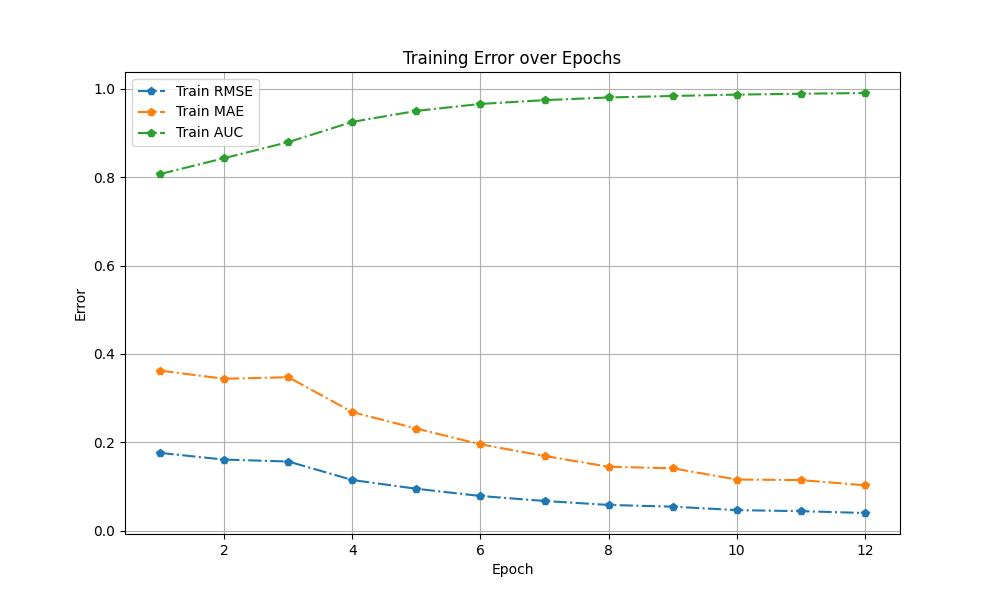
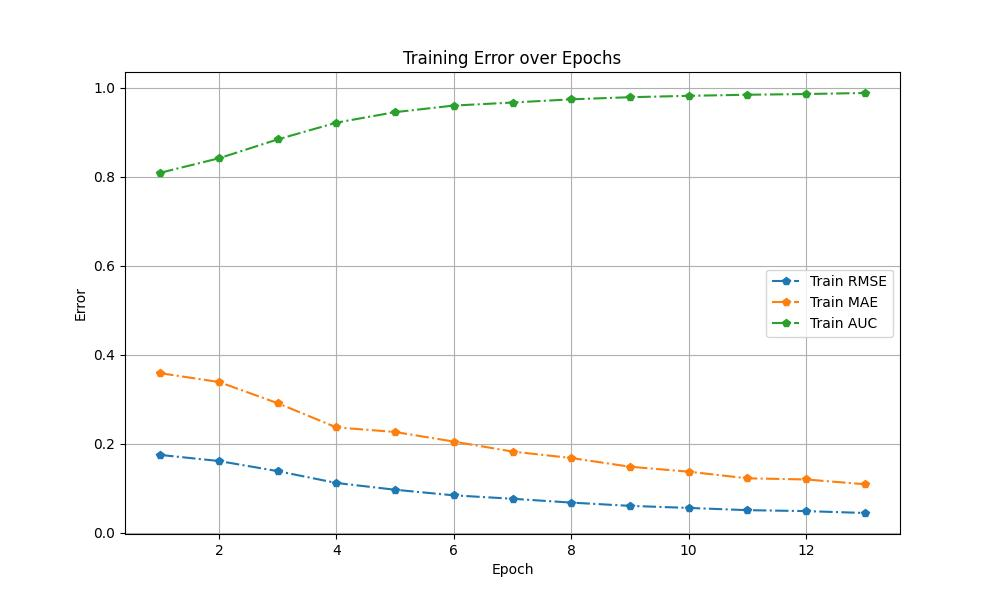
sota

diff --git a/Tools/Parameter.py b/Tools/Parameter.py
@@ -40,7 +40,7 @@ ncf_config = {
     "batch_size": 1024,
     "kwargs": {
         'embed_size':128,
-        'hidden_nbs':[1024, 4096, 1024],
+        'hidden_nbs':[512, 1024, 512],
         'dropout':0.1
     }
 }
